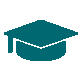
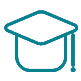
修改图标及设置页面

diff --git a/component/edit_info/edit_info.js b/component/edit_info/edit_info.js
@@ -101,20 +101,6 @@ Component({
         examDate: e.detail.value
       })
     },
-    
-    //点击 生日 删除键
-    cleanBirthday(){
-      this.setData({
-        birthday: null
-      })
-    },
-
-    //点击 考研日期 删除键
-    cleanExamDate() {
-      this.setData({
-        examDate: null
-      })
-    },
 
     //点击取消按钮
     _error() {
